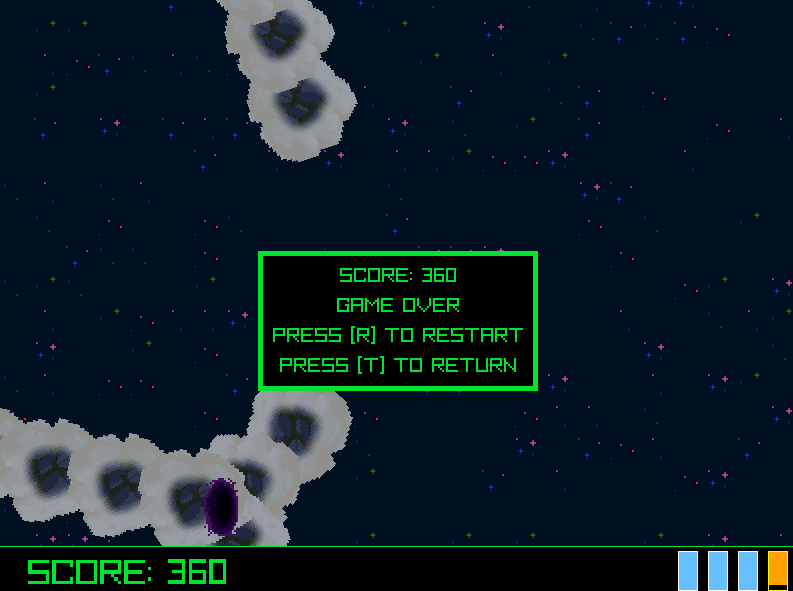
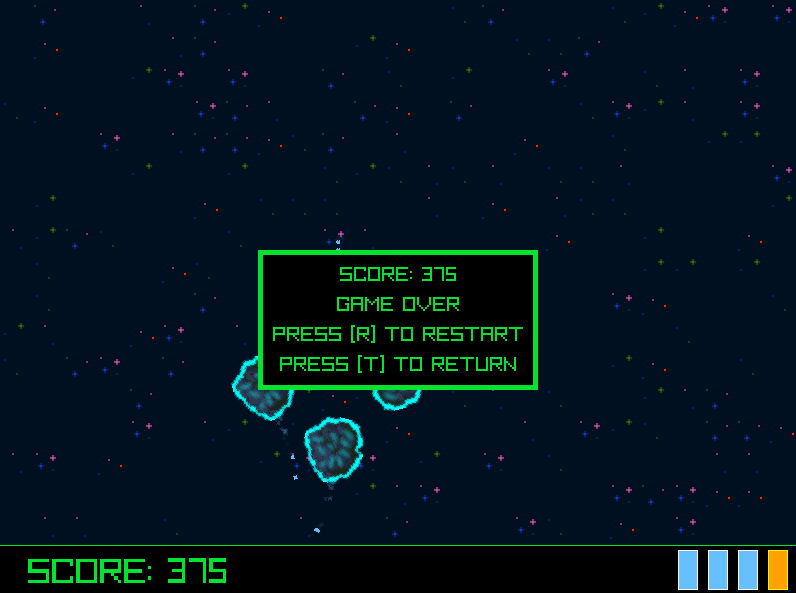
full deploy

diff --git a/src/shockwaveManager.cpp b/src/shockwaveManager.cpp
@@ -16,17 +16,28 @@ void ShockwaveManager::update(){
         if (!it->isAlive())
             it = m_shockwaves.erase(it);
         else {
-            it->update();
+            it->update(m_particles);
             it++;
         }
         
     for(int& charge : m_charges)
         if(charge < k_maxCharge)
             charge += k_chargeRecover;
+        
+    // Particles
+    for (auto it = m_particles.begin(); it != m_particles.end();){
+        if (!it->isAlive()){
+            it = m_particles.erase(it);
+        }
+        else {
+            it->update();
+            it++;
+        }
+    }
 }
 
 void ShockwaveManager::draw(){
-    for(Shockwave shockwave: m_shockwaves)
+    for(Shockwave& shockwave: m_shockwaves)
         shockwave.draw();
     
     // for(unsigned int i = 0; i < m_shockwaves.size(); i++)
@@ -34,9 +45,11 @@ void ShockwaveManager::draw(){
     // for(unsigned int i = 0; i < k_charges; i++)
         // DrawText(std::to_string(m_charges[i]).c_str(), 30, 20 * (i + 1), 20, WHITE);
 }
-void ShockwaveManager::draw(Texture2D& p_texture){
-    for(Shockwave shockwave: m_shockwaves)
-        shockwave.draw(p_texture);
+void ShockwaveManager::draw(Texture2D& p_particleTexture){
+    for(Shockwave& shockwave: m_shockwaves)
+        shockwave.draw();
+    for(auto& particle : m_particles)
+        particle.draw(p_particleTexture, GetRandomValue(0,1) ? SKYBLUE : BLUE, false);
 }
 void ShockwaveManager::drawIndicators(){
     for(int i = 0; i < k_charges; i++){
@@ -67,6 +80,7 @@ void ShockwaveManager::checkCollisions(std::vector<Asteroid>& p_asteroids){
 
 void ShockwaveManager::restart(){
     m_shockwaves.clear();
+    m_particles.clear();
     for(int i = 0; i < k_charges; i++)
         m_charges[i] = k_maxCharge;
 }

diff --git a/src/shockwave.cpp b/src/shockwave.cpp
@@ -33,14 +33,25 @@ void Shockwave::update(){
     // Calculate life
     m_alive = GetTime() - m_startTime < k_lifeTime;
 }
+void Shockwave::update(std::vector<Particle> &p_particles){
+    // Particles
+    for(int i = 0; i < 8; i++){
+        p_particles.push_back(Particle(m_position
+                            , (float)GetRandomValue(30, 60) * i
+                            , 0.4f
+                            , (float)GetRandomValue(10, 15)
+                            , GetRandomValue(45, 90) / 10.f));
+    }
+    
+    // Calculate life
+    m_alive = GetTime() - m_startTime < k_lifeTime;
+}
 
 void Shockwave::draw(){
-    DrawCircleV(m_position, k_size, SKYBLUE);
-}
-void Shockwave::draw(Texture2D &p_texture){
-    //DrawCircleV(m_position, k_size, RED);
-    //DrawText(std::to_string(p_texture.width).c_str(), 10, 10, 20, WHITE);
-    DrawTextureEx(p_texture, {m_position.x - (p_texture.width * 6.5f) / 2, m_position.y - (p_texture.height * 6.5f) / 2}, 0.f, 6.5f , WHITE);
+    // DrawCircleV(m_position, k_size, SKYBLUE);
+    DrawCircleLines(m_position.x, m_position.y, k_size, GetRandomValue(0,1) ? SKYBLUE : BLUE);
+    // DrawCircleV(m_position, k_size, RED);
+    // DrawText(std::to_string(p_texture.width).c_str(), 10, 10, 20, WHITE);
 }
 
 bool Shockwave::isAlive(){

diff --git a/src/sceneGame.cpp b/src/sceneGame.cpp
@@ -16,7 +16,6 @@ SceneGame::SceneGame(int p_screenWidth, int p_screenHeight)
     // Textures
     texShip = LoadTexture("assets/ship.png");
     texLaser = LoadTexture("assets/laser.png");
-    texShockwave = LoadTexture("assets/shockwave.png");
     texPortal = LoadTexture("assets/portal.png");
     texAsteroid = LoadTexture("assets/asteroid.png");
     texMetal = LoadTexture("assets/metal.png");
@@ -107,7 +106,7 @@ void SceneGame::draw(){
     for(auto& asteroid : asteroids)
         asteroid.draw(texAsteroid, texMetal, texShield);
     flameManager.draw(texFlames);
-    shockwaveManager.draw(texShockwave);
+    shockwaveManager.draw(texParticle);
     portalManager.draw(texPortal);
     player.draw(texShip);
     
@@ -140,7 +139,6 @@ void SceneGame::draw(){
 SceneGame::~SceneGame(){
     UnloadTexture(texShip);
     UnloadTexture(texLaser);
-    UnloadTexture(texShockwave);
     UnloadTexture(texPortal);
     UnloadTexture(texAsteroid);
     UnloadTexture(texMetal);

diff --git a/src/shockwave.h b/src/shockwave.h
@@ -1,8 +1,11 @@
 #pragma once
 
 #include "projectile.h"
+#include "particle.h"
 
 #include "raylib.h"
+
+#include <vector>
 
 class Shockwave : public Projectile{
     public:
@@ -10,8 +13,8 @@ class Shockwave : public Projectile{
         Shockwave(const Shockwave&);
         Shockwave& operator=(Shockwave&&) noexcept;
         void update();
+        void update(std::vector<Particle>&);
         void draw();
-        void draw(Texture2D&);
         bool isAlive();
         Vector2 getPos();
         float getRadius();

diff --git a/src/shockwaveManager.h b/src/shockwaveManager.h
@@ -2,6 +2,7 @@
 
 #include "shockwave.h"
 #include "asteroid.h"
+#include "particle.h"
 
 #include "raylib.h"
 
@@ -23,4 +24,5 @@ class ShockwaveManager{
         const int k_chargeRecover = 25; // 25
         std::vector<Shockwave> m_shockwaves;
         int m_charges[3]; // 3
+        std::vector<Particle> m_particles;
 };

diff --git a/src/sceneGame.h b/src/sceneGame.h
@@ -30,7 +30,6 @@ class SceneGame : public Scene{
         
         Texture2D texShip;
         Texture2D texLaser;
-        Texture2D texShockwave;
         Texture2D texFlames[4];
         Texture2D texPortal;
         Texture2D texAsteroid;

diff --git a/README.md b/README.md
@@ -1,71 +1,43 @@
-## Usage
+## COSMIC PURSUIT
 
-To compile the app, use one of the following dependending on your build target...
-
-### Desktop
-
-Use the following to build for desktop:
-
-``` bash
-cd src
-cmake -B build
-cmake --build build
-```
-
-### Web
-
-Compiling for the web requires the [Emscripten SDK](https://emscripten.org/docs/getting_started/downloads.html):
-
-``` bash
-cd src
-mkdir build
-cd build
-emcmake cmake .. -DPLATFORM=Web -DCMAKE_BUILD_TYPE=Release -DCMAKE_EXE_LINKER_FLAGS="-s USE_GLFW=3" -DCMAKE_EXECUTABLE_SUFFIX=".html"
-emmake make
-emrun project.html
-```
-
-## $(Game Title)
-
-![$(Game Title)](screenshots/screenshot000.png "$(Game Title)")
+![COSMIC PURSUIT](screenshots/mainmenu.png "COSMIC PURSUIT")
 
 ### Description
 
-$(Your Game Description)
+My first ever game jam submission, a simple space shooter game based on Asteroids made for the "Raylib Slo Jam".
 
 ### Features
 
- - $(Game Feature 01)
- - $(Game Feature 02)
- - $(Game Feature 03)
+Portals will appear to summon asteroids you must destroy using your ship's built in lasers. The asteroids can be covered in metal that you can melt using the flamethrower or have a shield that you need to remove using the electric pulse.
 
 ### Controls
 
 Keyboard:
- - $(Game Control 01)
- - $(Game Control 02)
- - $(Game Control 03)
+ - \[W\] to move ship forward
+ - \[A\] to rotate ship counterclockwise
+ - \[S\] to move ship backwards
+ - \[D\] to rotate ship clockwise
+ - \[J\] to fire lasers
+ - \[K\] to use flamethrower
+ - \[L\] to use electric shock
 
 ### Screenshots
 
-_TODO: Show your game to the world, animated GIFs recommended!._
+![gameplay1](screenshots/gameplay1.png)
+![gameplay2](screenshots/gameplay2.png)
+![gameplay3](screenshots/gameplay3.png)
+![gameover](screenshots/gameover.png)
 
 ### Developers
 
- - $(Developer 01) - $(Role/Tasks Developed)
- - $(Developer 02) - $(Role/Tasks Developed)
- - $(Developer 03) - $(Role/Tasks Developed)
-
+ - Turp2703 (myself) - Everything
+ 
 ### Links
 
- - YouTube Gameplay: $(YouTube Link)
- - itch.io Release: $(itch.io Game Page)
- - Steam Release: $(Steam Game Page)
+ - itch.io Release: https://turp2703.itch.io/cosmic-pursuit
 
 ### License
 
 This game sources are licensed under an unmodified zlib/libpng license, which is an OSI-certified, BSD-like license that allows static linking with closed source software. Check [LICENSE](LICENSE) for further details.
 
-$(Additional Licenses)
-
-*Copyright (c) $(Year) $(User Name) ($(User Twitter/GitHub Name))*
+*Copyright (c) 2024 Turp2703*
